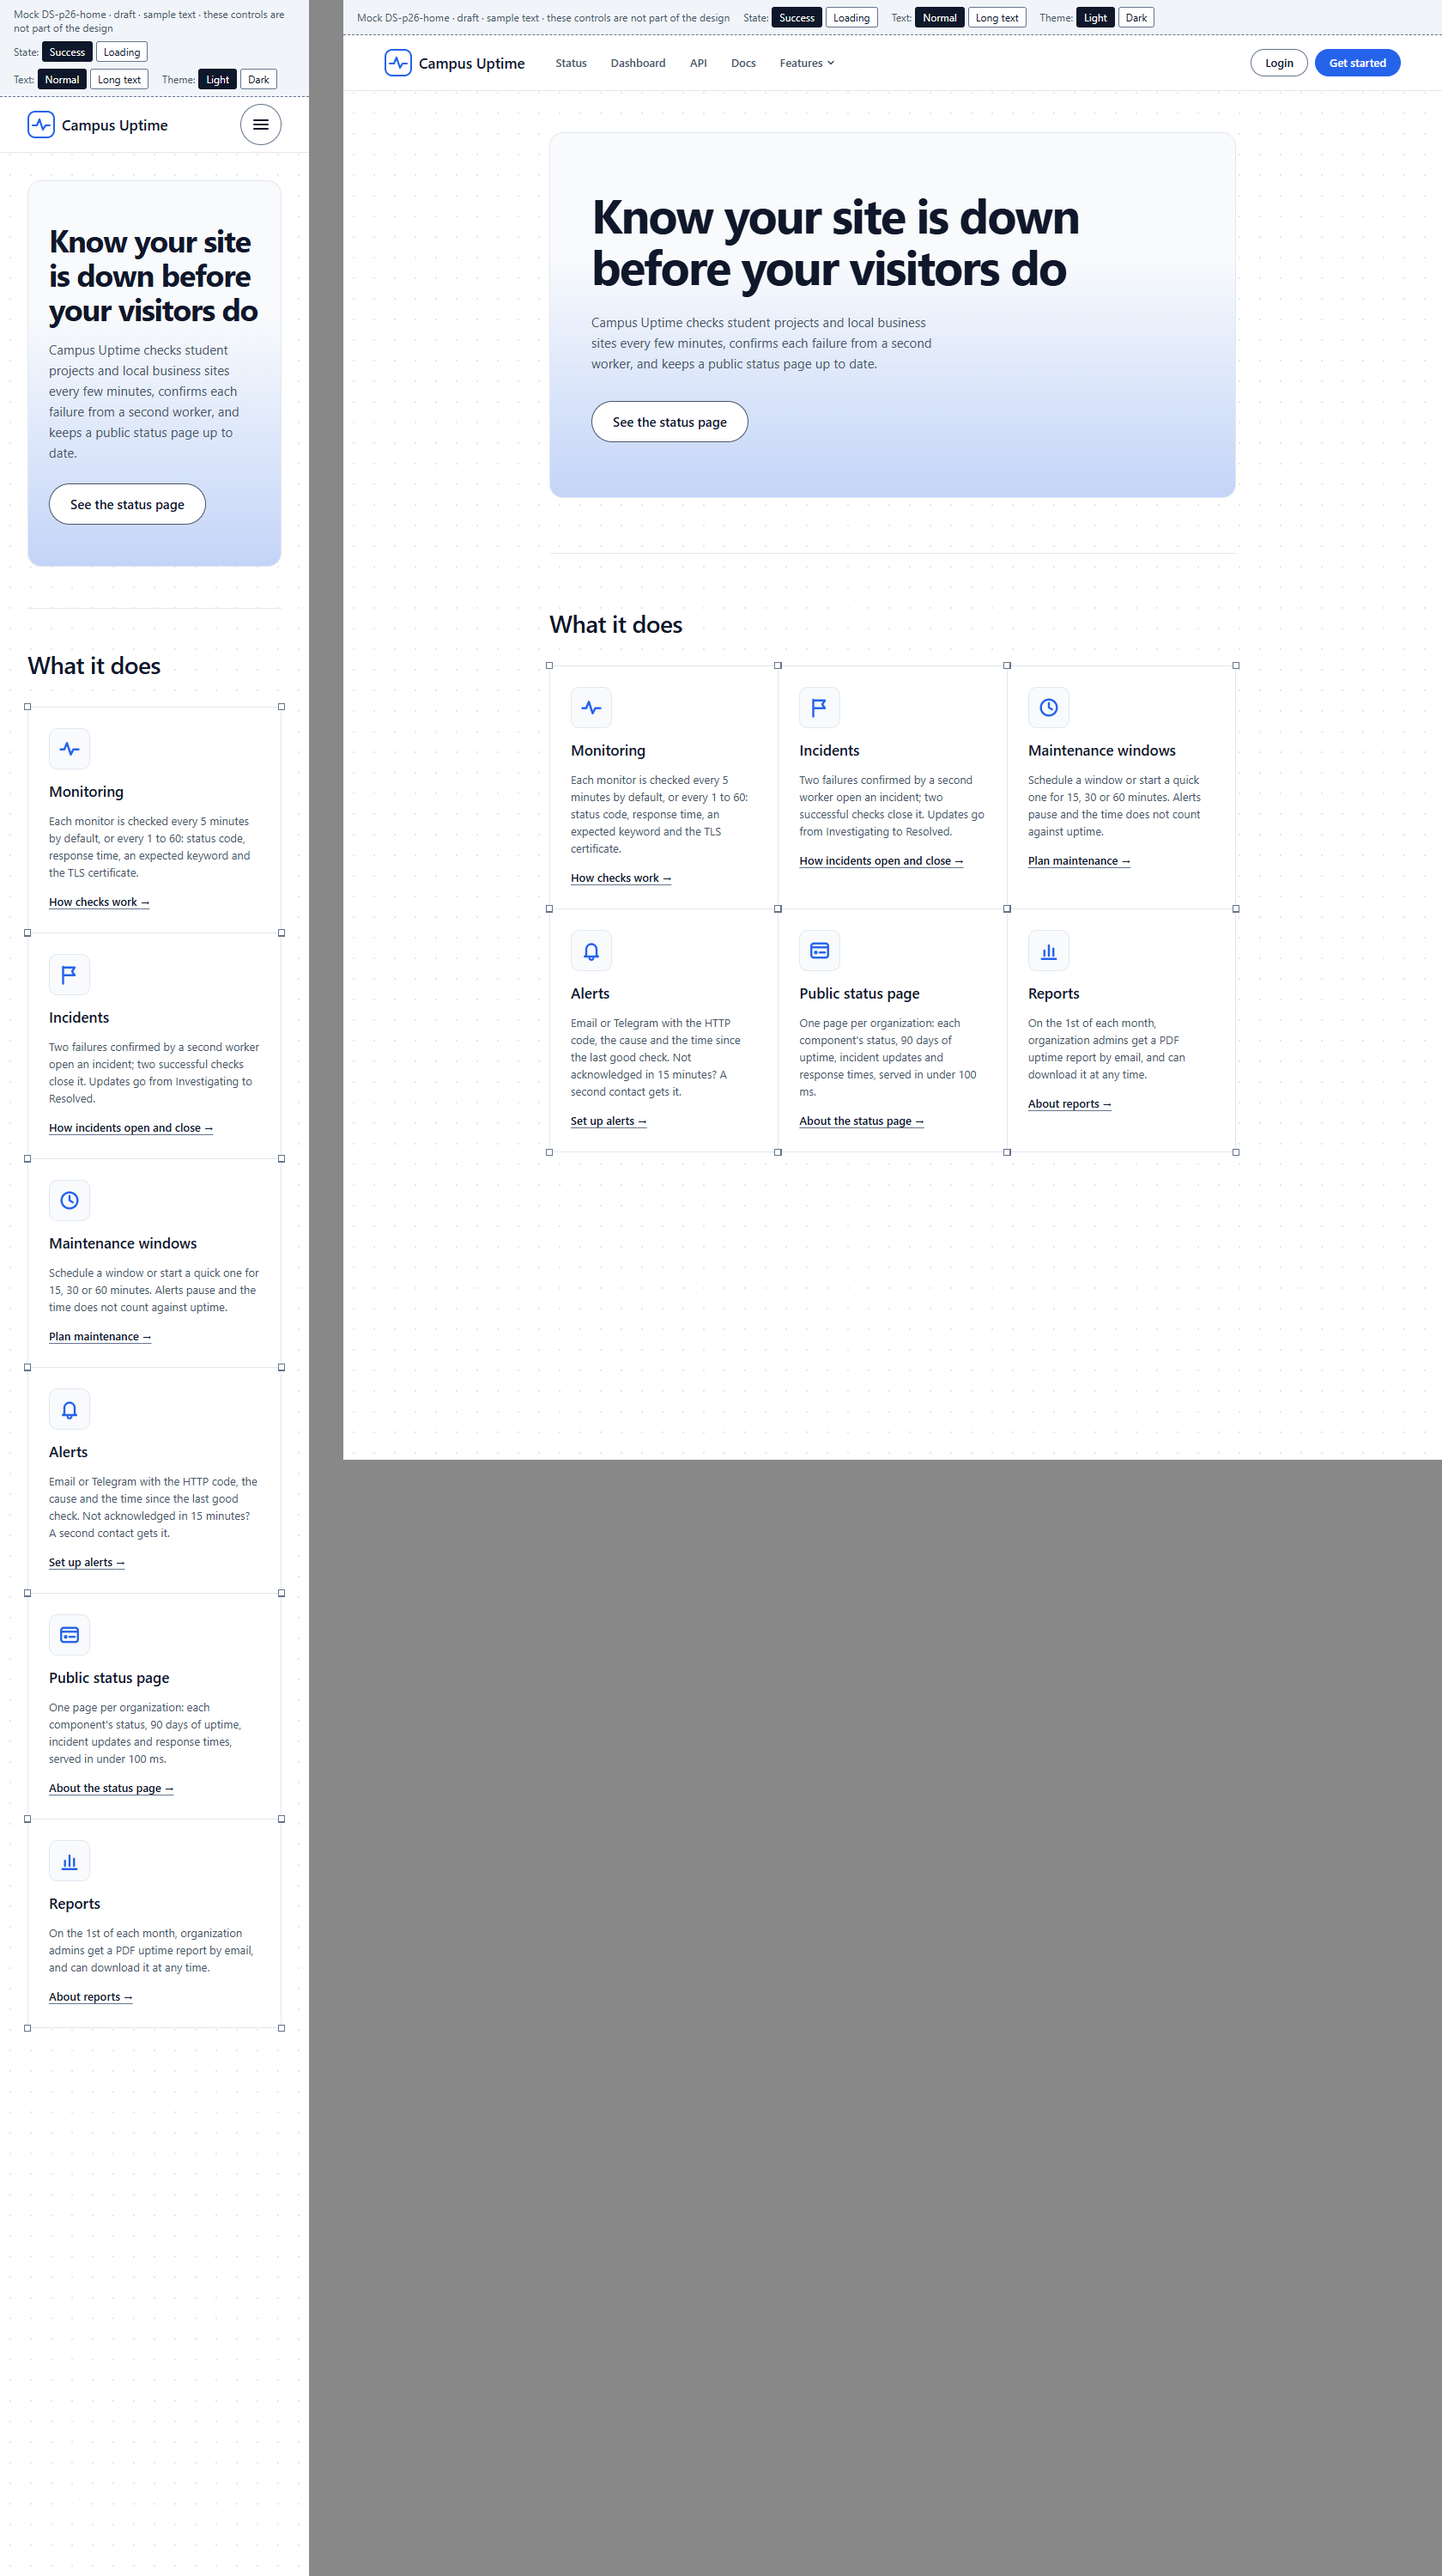
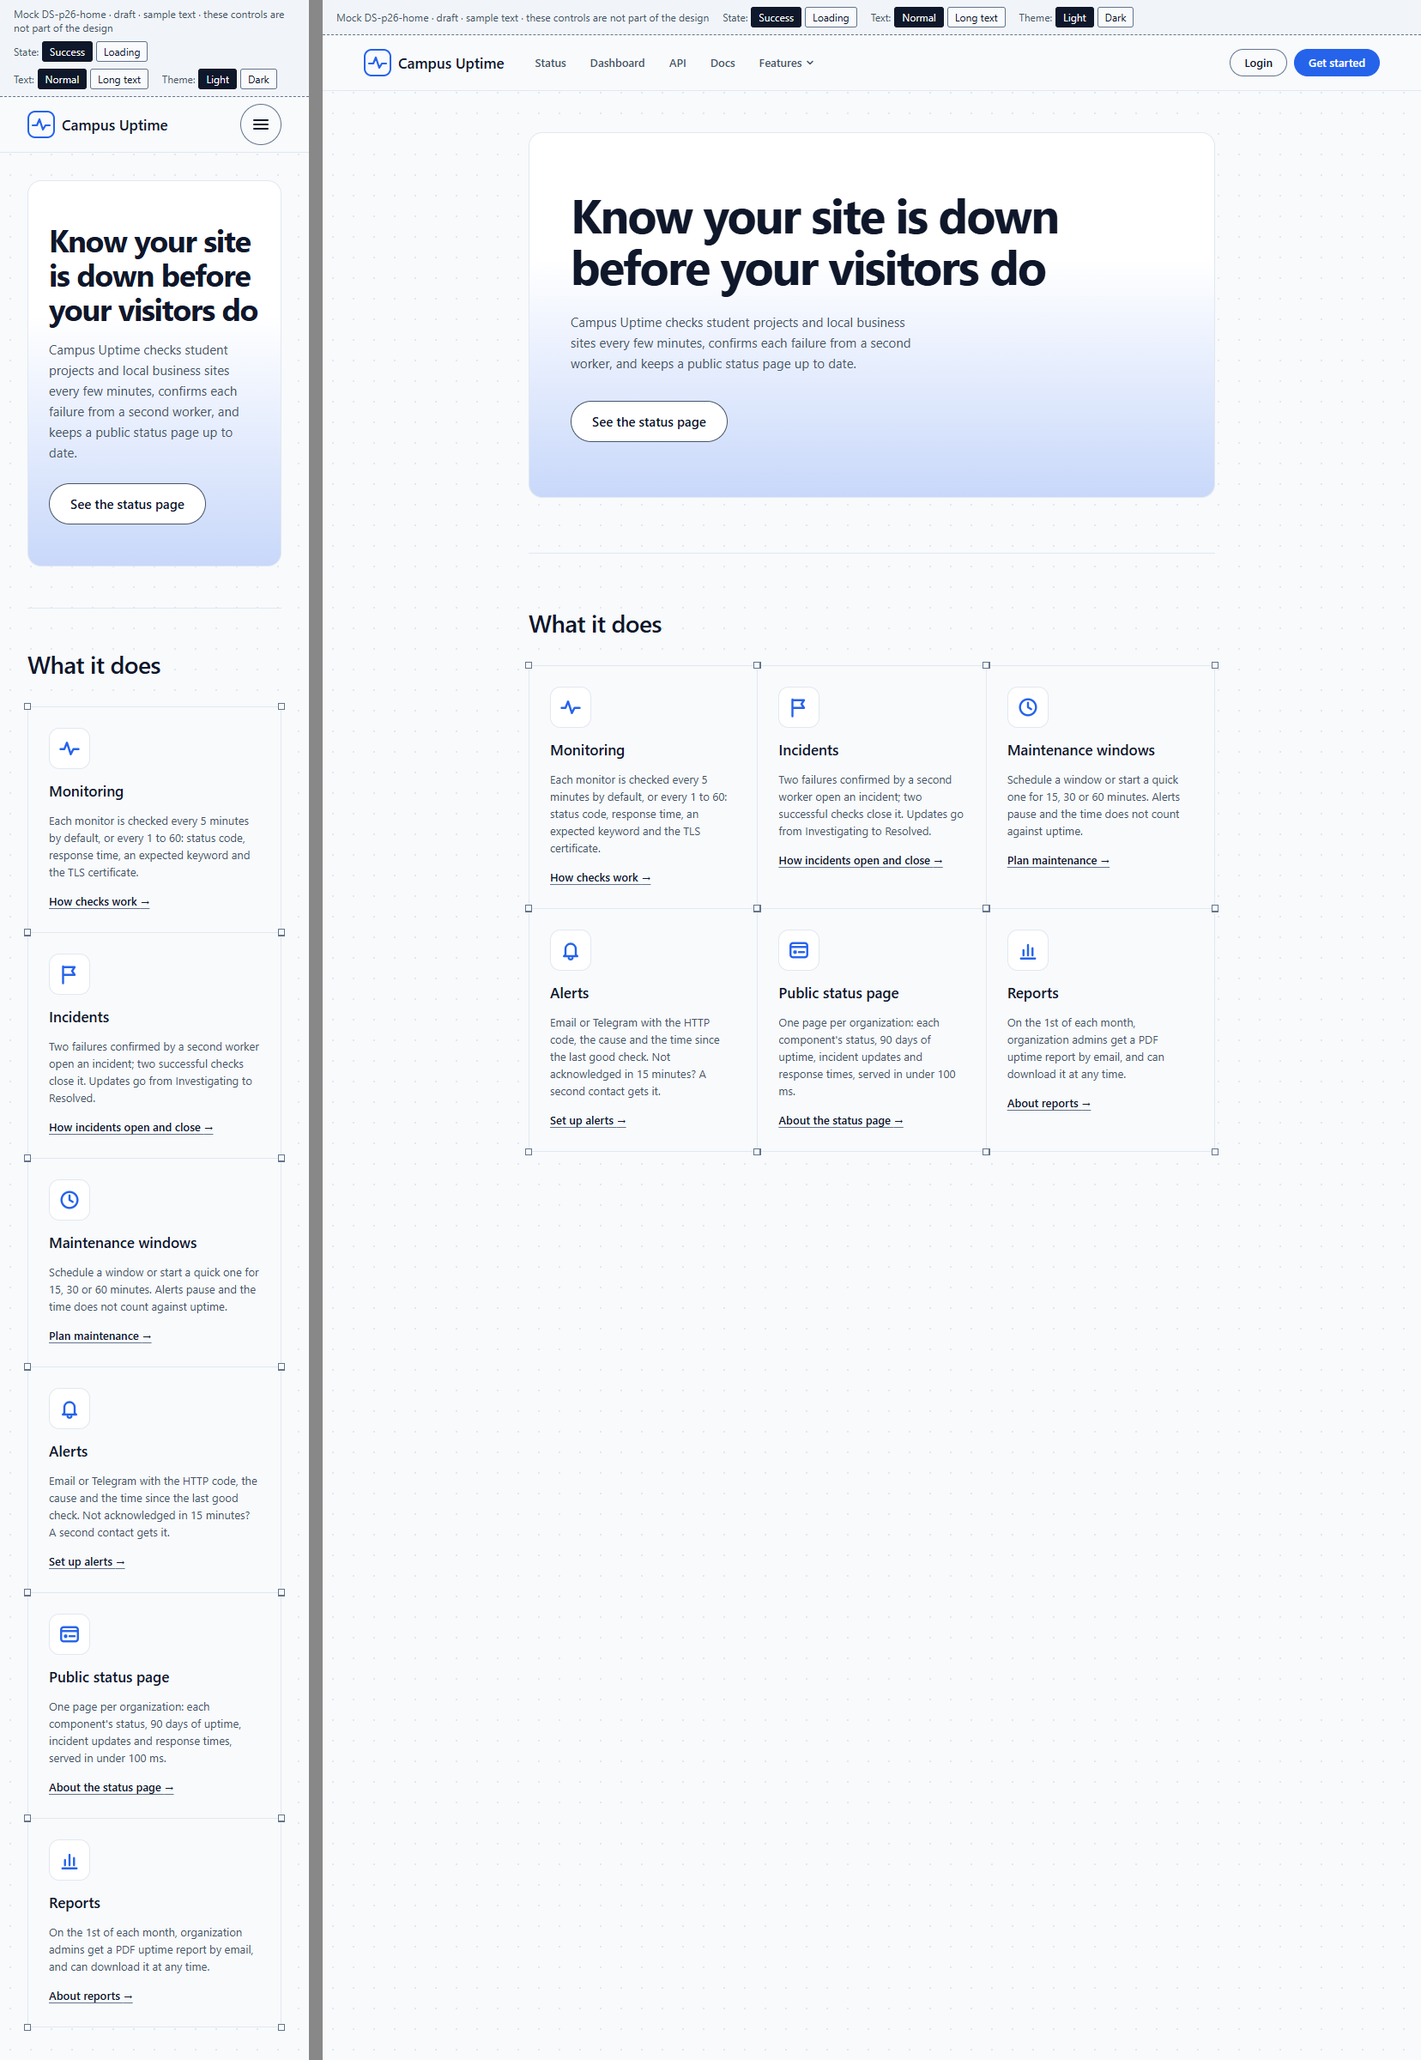
docs(design): deeper light background, 12px card radius, brand wash and pill badges
Light page background moves to Slate 50 with white cards; contrast ratios
recomputed. Adds --gradient-brand-soft and --border-accent, a faint dark card
shadow instead of the outline, the status banner on --text-2xl and pill
status badges. The header and home mocks take the new token values.

diff --git a/docs/design/mocks/DS-p26-home.html b/docs/design/mocks/DS-p26-home.html
@@ -7,8 +7,8 @@
 <style>
 /* ---------- Tokens: copied from docs/design/DESIGN.md, nothing else ---------- */
 :root {
-  --color-bg-base: #ffffff;
-  --color-bg-surface: #f8fafc;
+  --color-bg-base: #f8fafc;
+  --color-bg-surface: #ffffff;
   --color-bg-subtle: #f1f5f9;
   --color-border: #e2e8f0;
   --color-border-strong: #64748b;
@@ -35,7 +35,7 @@
 
   --space-0-5: 2px; --space-1: 4px; --space-2: 8px; --space-3: 12px; --space-4: 16px;
   --space-6: 24px; --space-8: 32px; --space-12: 48px; --space-16: 64px;
-  --radius-sm: 3px; --radius-md: 6px; --radius-lg: 10px; --radius-xl: 16px; --radius-pill: 9999px;
+  --radius-sm: 3px; --radius-md: 6px; --radius-lg: 12px; --radius-xl: 16px; --radius-pill: 9999px;
   --container-max: 800px;
 }
 @media (prefers-color-scheme: dark) {
@@ -44,7 +44,7 @@
     --color-border: #23272f; --color-border-strong: #64748b;
     --color-text-primary: #f8fafc; --color-text-secondary: #cbd5e1; --color-text-muted: #94a3b8;
     --color-brand: #60a5fa; --color-on-brand: #0f172a;
-    --shadow-card: 0 0 0 1px #23272f;
+    --shadow-card: 0 1px 2px 0 rgba(0,0,0,0.5);
     --hero-mix: 35%; --color-btn-hero-bg: #f8fafc; --color-btn-hero-text: #0a0b0f; --color-btn-hero-border: transparent;
   }
 }
@@ -53,7 +53,7 @@
   --color-border: #23272f; --color-border-strong: #64748b;
   --color-text-primary: #f8fafc; --color-text-secondary: #cbd5e1; --color-text-muted: #94a3b8;
   --color-brand: #60a5fa; --color-on-brand: #0f172a;
-  --shadow-card: 0 0 0 1px #23272f;
+  --shadow-card: 0 1px 2px 0 rgba(0,0,0,0.5);
   --hero-mix: 35%; --color-btn-hero-bg: #f8fafc; --color-btn-hero-text: #0a0b0f; --color-btn-hero-border: transparent;
 }
 @media (max-width: 640px) { :root { --text-display: 700 36px/40px var(--font-sans); } }

diff --git a/docs/design/mocks/DS-p26-header.html b/docs/design/mocks/DS-p26-header.html
@@ -7,8 +7,8 @@
 <style>
 /* ---------- Tokens: copied from docs/design/DESIGN.md, nothing else ---------- */
 :root {
-  --color-bg-base: #ffffff;
-  --color-bg-surface: #f8fafc;
+  --color-bg-base: #f8fafc;
+  --color-bg-surface: #ffffff;
   --color-bg-subtle: #f1f5f9;
   --color-border: #e2e8f0;
   --color-border-strong: #64748b;
@@ -30,7 +30,7 @@
 
   --space-0-5: 2px; --space-1: 4px; --space-2: 8px; --space-3: 12px; --space-4: 16px;
   --space-6: 24px; --space-8: 32px; --space-12: 48px; --space-16: 64px;
-  --radius-sm: 3px; --radius-md: 6px; --radius-lg: 10px; --radius-xl: 16px; --radius-pill: 9999px;
+  --radius-sm: 3px; --radius-md: 6px; --radius-lg: 12px; --radius-xl: 16px; --radius-pill: 9999px;
   --container-max: 800px;
 }
 @media (prefers-color-scheme: dark) {
@@ -39,7 +39,7 @@
     --color-border: #23272f; --color-border-strong: #64748b;
     --color-text-primary: #f8fafc; --color-text-secondary: #cbd5e1; --color-text-muted: #94a3b8;
     --color-brand: #60a5fa; --color-on-brand: #0f172a;
-    --shadow-card: 0 0 0 1px #23272f;
+    --shadow-card: 0 1px 2px 0 rgba(0,0,0,0.5);
   }
 }
 :root[data-theme="dark"] {
@@ -47,7 +47,7 @@
   --color-border: #23272f; --color-border-strong: #64748b;
   --color-text-primary: #f8fafc; --color-text-secondary: #cbd5e1; --color-text-muted: #94a3b8;
   --color-brand: #60a5fa; --color-on-brand: #0f172a;
-  --shadow-card: 0 0 0 1px #23272f;
+  --shadow-card: 0 1px 2px 0 rgba(0,0,0,0.5);
 }
 
 /* ---------- Base ---------- */

diff --git a/docs/design/DESIGN.md b/docs/design/DESIGN.md
@@ -92,22 +92,22 @@ Status colors are for icons, bars, dots and borders only (≥ 3:1). Status *text
 ### Colors
 | Token | Light | Dark | Purpose | Contrast light / dark |
 |---|---|---|---|---|
-| `--color-bg-base` | `#ffffff` | `#0a0b0f` (near-black) | Page background | — |
-| `--color-bg-surface` | `#f8fafc` (Slate 50) | `#111318` | Cards, containers | — |
+| `--color-bg-base` | `#f8fafc` (Slate 50) | `#0a0b0f` (near-black) | Page background, deeper than the cards | — |
+| `--color-bg-surface` | `#ffffff` | `#111318` | Cards, containers, status badges | — |
 | `--color-bg-subtle` | `#f1f5f9` (Slate 100) | `#1a1d24` | Row hover, uptime bar track | — |
 | `--color-border` | `#e2e8f0` (Slate 200) | `#23272f` | Card borders, dividers (decorative) | — |
-| `--color-border-strong` | `#64748b` (Slate 500) | `#64748b` (Slate 500) | Input and control borders | 4.76 on base / 3.90 on surface |
-| `--color-text-primary` | `#0f172a` (Slate 900) | `#f8fafc` (Slate 50) | Headings, body, metric values | 17.85 / 17.76 |
-| `--color-text-secondary` | `#475569` (Slate 600) | `#cbd5e1` (Slate 300) | Labels, descriptions | 7.24 on surface / 12.52 on surface |
-| `--color-text-muted` | `#64748b` (Slate 500) | `#94a3b8` (Slate 400) | Timestamps, footnotes, legends; not on `bg-subtle` | 4.55 on surface / 7.25 on surface |
-| `--color-brand` | `#2563eb` (Blue 600) | `#60a5fa` (Blue 400) | Primary buttons, links, focus ring | 4.94 on surface / 7.31 on surface |
+| `--color-border-strong` | `#64748b` (Slate 500) | `#64748b` (Slate 500) | Input and control borders | light 4.76 on surface, 4.55 on base / dark 3.90 on surface |
+| `--color-text-primary` | `#0f172a` (Slate 900) | `#f8fafc` (Slate 50) | Headings, body, metric values | 17.85 on surface, 17.06 on base / 17.76 |
+| `--color-text-secondary` | `#475569` (Slate 600) | `#cbd5e1` (Slate 300) | Labels, descriptions | 7.58 on surface, 7.24 on base / 12.52 on surface |
+| `--color-text-muted` | `#64748b` (Slate 500) | `#94a3b8` (Slate 400) | Timestamps, footnotes, legends; not on `bg-subtle` | 4.76 on surface, 4.55 on base / 7.25 on surface |
+| `--color-brand` | `#2563eb` (Blue 600) | `#60a5fa` (Blue 400) | Primary buttons, links, focus ring | 5.17 on surface, 4.94 on base / 7.31 on surface |
 | `--color-on-brand` | `#ffffff` | `#0f172a` (Slate 900) | Text and icons on `--color-brand` | 5.17 / 7.02 |
-| `--color-status-ok` | `#059669` (Emerald 600) | `#34d399` (Emerald 400) | Operational (Up) | 3.60 on surface / 9.67 |
-| `--color-status-degraded` | `#d97706` (Amber 600) | `#fbbf24` (Amber 400) | High latency, degraded | 3.04 on surface / 11.13 |
+| `--color-status-ok` | `#059669` (Emerald 600) | `#34d399` (Emerald 400) | Operational (Up) | 3.77 on surface / 9.67 |
+| `--color-status-degraded` | `#d97706` (Amber 600) | `#fbbf24` (Amber 400) | High latency, degraded | 3.19 on surface, 3.04 on base / 11.13 |
 | `--color-status-outage` | `#dc2626` (Red 600) | `#f87171` (Red 400) | Open incident (Down) | 4.83 / 6.72 |
 | `--color-status-maint` | `#7c3aed` (Violet 600) | `#a78bfa` (Violet 400) | Maintenance window | 5.70 / 6.83 |
-| `--color-status-nodata` | `#64748b` (Slate 500) | `#64748b` (Slate 500) | Uptime bar with no checks | 4.55 on surface / 3.90 |
-| `--shadow-card` | `0 1px 3px 0 rgba(15,23,42,0.08), 0 1px 2px -1px rgba(15,23,42,0.08)` | `0 0 0 1px #23272f` | Card elevation; dark uses an outline, not a shadow | — |
+| `--color-status-nodata` | `#64748b` (Slate 500) | `#64748b` (Slate 500) | Uptime bar with no checks | 4.76 on surface / 3.90 |
+| `--shadow-card` | `0 1px 3px 0 rgba(15,23,42,0.08), 0 1px 2px -1px rgba(15,23,42,0.08)` | `0 1px 2px 0 rgba(0,0,0,0.5)` | Faint card elevation; every card also has a 1px solid `--color-border` border in both themes | — |
 | `--color-btn-hero-bg` | `#ffffff` | `#f8fafc` (Slate 50) | The light pill button on the hero card | — |
 | `--color-btn-hero-text` | `#0f172a` (Slate 900) | `#0a0b0f` | Text on `--color-btn-hero-bg` | 17.85 / 18.80 |
 | `--color-btn-hero-border` | `#475569` (Slate 600) | `transparent` | Border of the hero button (light only) | 5.09 on the hero bottom / — |
@@ -116,8 +116,9 @@ Status colors are for icons, bars, dots and borders only (≥ 3:1). Status *text
 
 | Token | Value | Purpose | Contrast |
 |---|---|---|---|
-| `--gradient-hero` | `linear-gradient(to top, color-mix(in srgb, var(--color-brand) var(--hero-mix), var(--color-bg-surface)) 0%, var(--color-bg-surface) 65%)`; `--hero-mix` is `25%` light, `35%` dark | Hero card on DS-p26-home; rises from the bottom edge, the headline sits on the plain surface. Fallback: `--color-bg-surface` | Bottom edge (worst case) light `#c3d4f8`: text-primary 10.3, text-secondary 5.09, brand 3.47. Dark `#2d4667`: text-primary 9.19, text-secondary 6.48, brand 3.78; no `--color-text-muted` on the hero |
-| `--bg-dots` | `radial-gradient(circle, var(--color-border) 1px, transparent 1.5px) 0 0 / var(--space-6) var(--space-6)` | Very subtle dotted page background on DS-p26-home | decorative |
+| `--gradient-hero` | `linear-gradient(to top, color-mix(in srgb, var(--color-brand) var(--hero-mix), var(--color-bg-surface)) 0%, var(--color-bg-surface) 65%)`; `--hero-mix` is `25%` light, `35%` dark | Hero card on DS-p26-home; rises from the bottom edge, the headline sits on the plain surface. Fallback: `--color-bg-surface` | Bottom edge (worst case) light `#c8d8fa`: text-primary 12.46, text-secondary 5.29, brand 3.61. Dark `#2d4667`: text-primary 9.19, text-secondary 6.48, brand 3.78; no `--color-text-muted` on the hero |
+| `--bg-dots` | `radial-gradient(circle, var(--color-border) 1px, transparent 1.5px) 0 0 / var(--space-6) var(--space-6)` | Very subtle dotted page background on DS-p26-home and DS-p26-public-status | decorative |
+| `--gradient-brand-soft` | `linear-gradient(to bottom, color-mix(in srgb, var(--color-brand) var(--wash-mix), var(--color-bg-base)) 0, var(--color-bg-base) 320px)`; `--wash-mix` is `6%` light, `14%` dark | Soft brand wash at the top of DS-p26-public-status, behind the header and under `--bg-dots`. Fallback: `--color-bg-base` | Top edge (worst case) light `#ebf1fb`: text-primary 15+, brand 4.56; **no `--color-text-muted` on the wash** (4.19). Dark `#162130`: text-muted 6.33, brand 6.38 |
 
 ### Typography
 System fonts stay (no download, which keeps the public page within its budget).
@@ -131,8 +132,8 @@ Every number uses `font-variant-numeric: tabular-nums`, so columns of values lin
 | `--text-sm` | `--font-sans` | `13px / 20px` | 400 / 500 | Secondary text, table cells |
 | `--text-base` | `--font-sans` | `15px / 24px` | 400 | Body, incident updates |
 | `--text-lg` | `--font-sans` | `17px / 26px` | 600 | Card titles, monitor names |
-| `--text-xl` | `--font-sans` | `22px / 30px` | 700 | Status banner headline (one per screen) |
-| `--text-2xl` | `--font-sans` | `28px / 34px`, letter-spacing `-0.02em` | 600 | Section titles on DS-p26-home |
+| `--text-xl` | `--font-sans` | `22px / 30px` | 700 | Large card headings where `--text-2xl` is too loud |
+| `--text-2xl` | `--font-sans` | `28px / 34px`, letter-spacing `-0.02em` | 600 | Section titles on DS-p26-home; status banner headline on DS-p26-public-status (one per screen) |
 | `--text-display` | `--font-sans` | `56px / 60px`, letter-spacing `-0.035em`; ≤ 640 px: `36px / 40px` | 700 | Hero headline (the one primary heading on DS-p26-home) |
 | `--text-metric` | `--font-mono` | `13px / 20px` | 500 | Inline metrics (`24 ms`, `200`, `14:05 UTC`) |
 | `--text-metric-lg` | `--font-mono` | `20px / 28px` | 600 | Headline metrics (`99.98%` per monitor) |
@@ -157,10 +158,15 @@ tight.
 | Token | Value | Purpose |
 |---|---|---|
 | `--radius-sm` | `3px` | Uptime bars |
-| `--radius-md` | `6px` | Inputs, segmented controls, badges |
-| `--radius-lg` | `10px` | Cards, status banner |
+| `--radius-md` | `6px` | Inputs, segmented controls |
+| `--radius-lg` | `12px` | Cards, status banner |
 | `--radius-xl` | `16px` | Hero card |
-| `--radius-pill` | `9999px` | Status pills; every button, with a 1px `--color-border-strong` border |
+| `--radius-pill` | `9999px` | Status badges (on `--color-bg-surface`, 1px `--color-border`, icon in the status color, label in `--color-text-primary`; no tinted background, amber on its tint is < 3:1); every button, with a 1px `--color-border-strong` border |
+
+### Borders
+| Token | Value | Purpose |
+|---|---|---|
+| `--border-accent` | `4px` | Colored left edge of the status banner, in the current status color (≥ 3:1 on surface) |
 
 ### Breakpoints
 | Name | Min | Max | Purpose |
